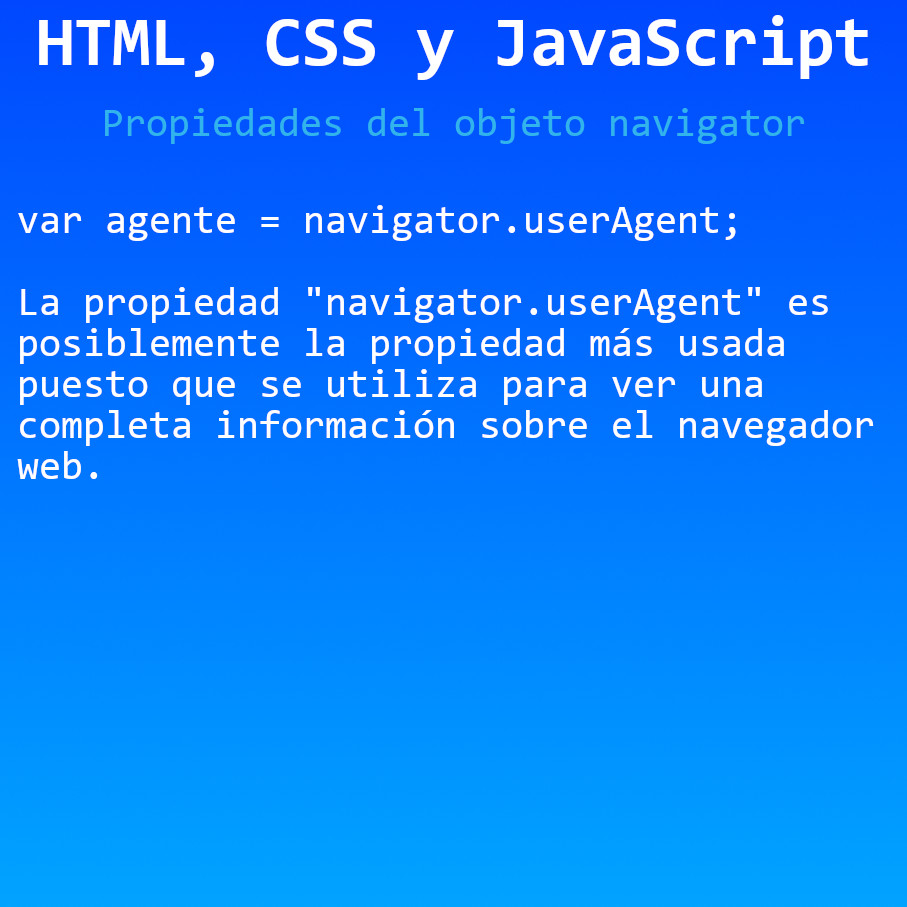
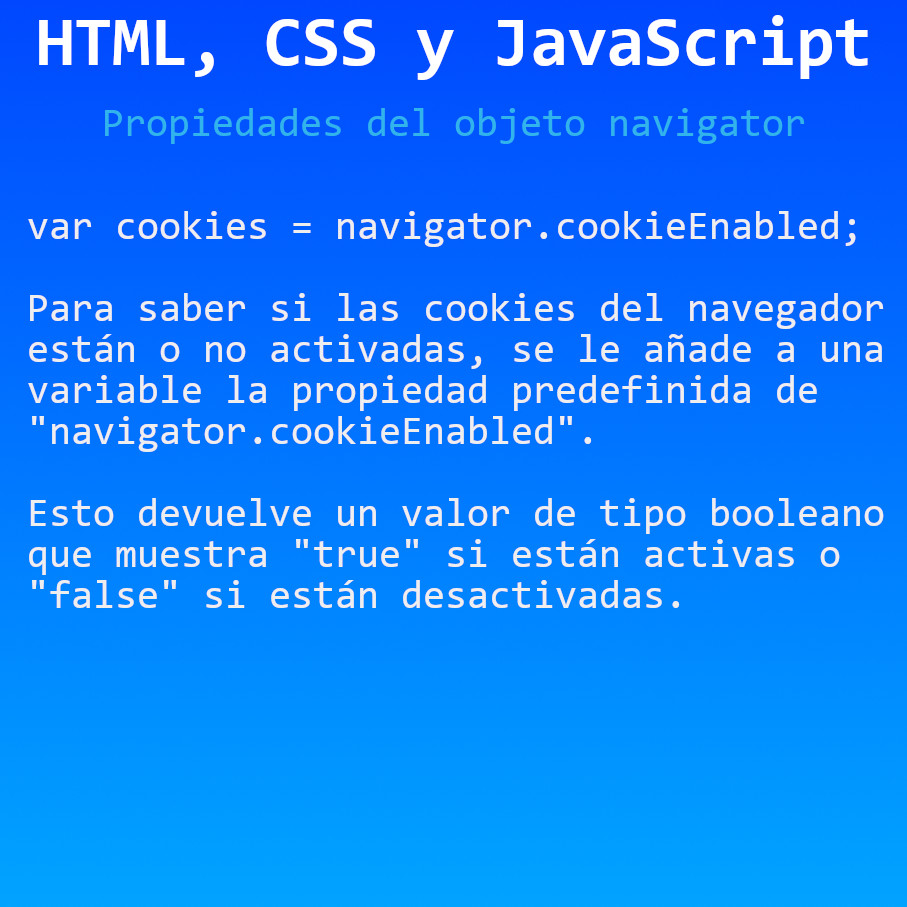
Propiedades del objeto navigator
Propiedades del objeto navigator en JavaScript

diff --git a/HTML, CSS y JavaScript/Propiedades del objeto navigator/js/funciones.js b/HTML, CSS y JavaScript/Propiedades del objeto navigator/js/funciones.js
@@ -40,3 +40,9 @@ var agente = navigator.userAgent;
 document.write("Agente: "+agente+".");
 // SEPARACIÓN
 document.write("<hr>");
+// AVERIGUAR SI LAS COOKIES DEL NAVEGADOR ESTÁN ACTIVAS
+var cookies = navigator.cookieEnabled;
+// mostrar en pantalla
+document.write("Cookies: "+cookies+".");
+// SEPARACIÓN
+document.write("<hr>");
